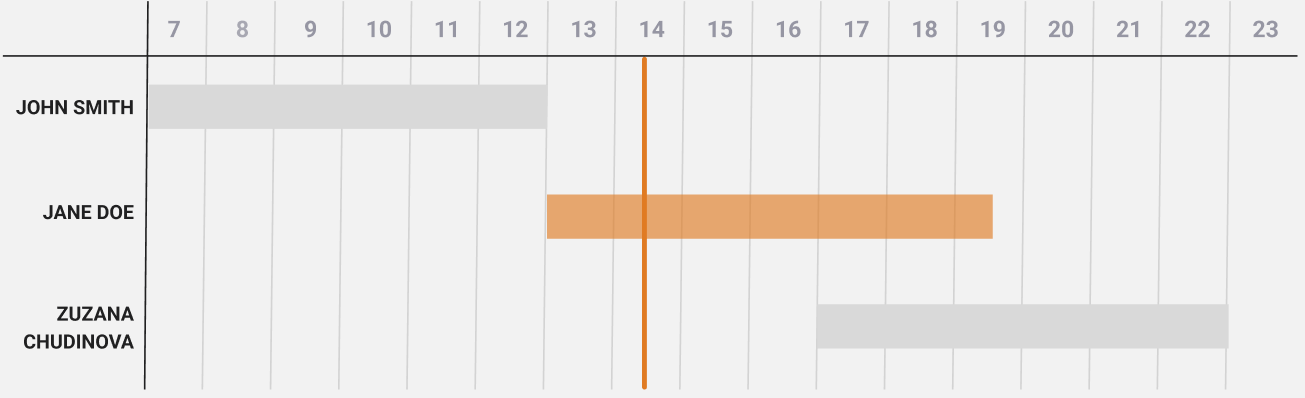
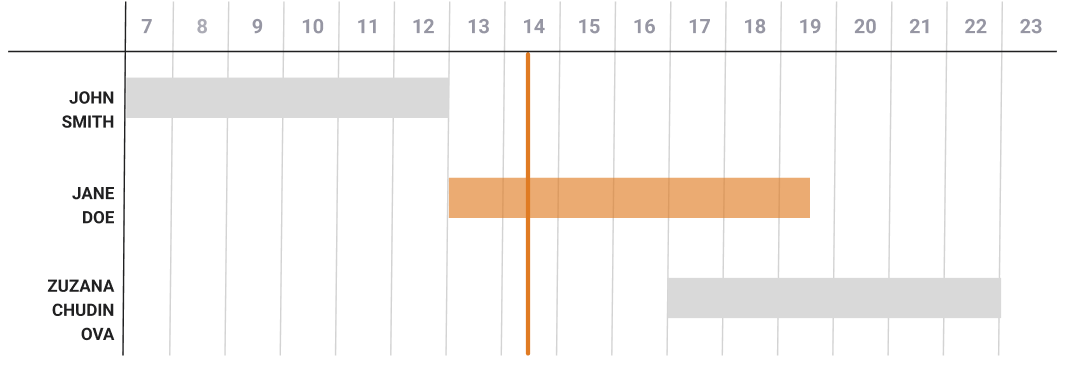
styling changes

diff --git a/src/pages/Dashboard.jsx b/src/pages/Dashboard.jsx
@@ -11,7 +11,7 @@ export default function Dashboard() {
       <div className="col-span-3">
         <MainTitle title="Dashboard" date={"Tuesday, 6th of December 2022"} />
       </div>
-      <div className="min-w-fit row-span-3 p-0 sm:p-2 mb-5 lg:mb-0">
+      <div className="min-w-fit row-span-4 p-0 sm:p-2 mb-5 lg:mb-0">
         <DashboardSubtitle
           title="Tasks"
           iconSource={deliveries}
@@ -35,12 +35,24 @@ export default function Dashboard() {
         />
         <Cards />
       </div>
-      <div className="flex flex-col gap-4 h-fit py-6 pl-4 border-l-2 border-accent rounded-none mb-5 lg:mb-0">
+      <div className="flex flex-col gap-4 h-fit p-2 sm:p-6 mb-5 lg:mb-0">
         <DashboardSubtitle
-          title="Special offers"
+          title="Schedule"
           iconSource={deliveries}
           iconDescription="deliveries icon"
         />
+        <Cards />
+      </div>
+
+      {/* special offers */}
+      <div className="col-span-3 grid grid-cols-3 gap-4 h-fit py-6 pl-4 mb-5 lg:mb-0">
+        <div className="col-span-3">
+          <DashboardSubtitle
+            title="Special offers"
+            iconSource={deliveries}
+            iconDescription="deliveries icon"
+          />
+        </div>
         {/* <div className="flex gap-1 uppercase font-semibold">
           <img src={deliveries} alt="deliveries icon" className="border-b-4 border-accent " />
           <h3>Special offers</h3>
@@ -61,15 +73,14 @@ export default function Dashboard() {
           expiration={"valid until 31/01/2023"}
         />
       </div>
-
-      <div className=" bg-light p-6 col-span-3 mb-5 lg:mb-0">
+      {/* <div className="col-span-2 p-6 mb-5 lg:mb-0">
         <DashboardSubtitle
           title="Schedule"
           iconSource={deliveries}
           iconDescription="deliveries icon"
         />
         <Schedule />
-      </div>
+      </div> */}
     </main>
   );
 }

diff --git a/src/components/Tasks.jsx b/src/components/Tasks.jsx
@@ -14,7 +14,7 @@ export default function Tasks() {
         <TasksListItem title="cleaning coffee machine" desc="see manual" />
         <TasksListItem title="cleaning coffee machine" desc="see manual" />
       </ul>
-      <div className="bg-light py-6 lg:py-12">
+      <div className="bg-light py-6 lg:py-12 h-full">
         <h4 className="font-medium pl-6">Done</h4>
         <TasksDoneItem title="cleaning coffee machine" desc="see manual" />
         <TasksDoneItem title="cleaning coffee machine" desc="see manual" />

diff --git a/src/components/SpecialOfferItem.jsx b/src/components/SpecialOfferItem.jsx
@@ -1,6 +1,6 @@
 export default function SpecialOfferItem(props) {
   return (
-    <div className="flex flex-col bg-light p-2">
+    <div className="flex flex-grow flex-col bg-light p-2">
       <h4 className="uppercase font-medium">{props.title}</h4>
       <div className="grid gap-2">
         <span className="text-sm">{props.discount}</span>

diff --git a/src/components/CardItem.jsx b/src/components/CardItem.jsx
@@ -1,6 +1,6 @@
 export default function CardItem(props) {
   return (
-    <div className="flex flex-col bg-light p-2">
+    <div className="flex flex-col bg-light p-2  border-l-2  border-l-accent rounded-none">
       <h4 className="uppercase font-medium">{props.title}</h4>
       <span>{props.time}</span>
     </div>

diff --git a/src/components/DashboardSubtitle.jsx b/src/components/DashboardSubtitle.jsx
@@ -4,7 +4,7 @@ export default function DashboardSubtitle(props) {
       <img
         src={props.iconSource}
         alt={props.iconDescription}
-        className="border-b-4 border-accent "
+        className="border-b-4 border-accent rounded-sm"
       />
       <h3>{props.title}</h3>
     </div>
